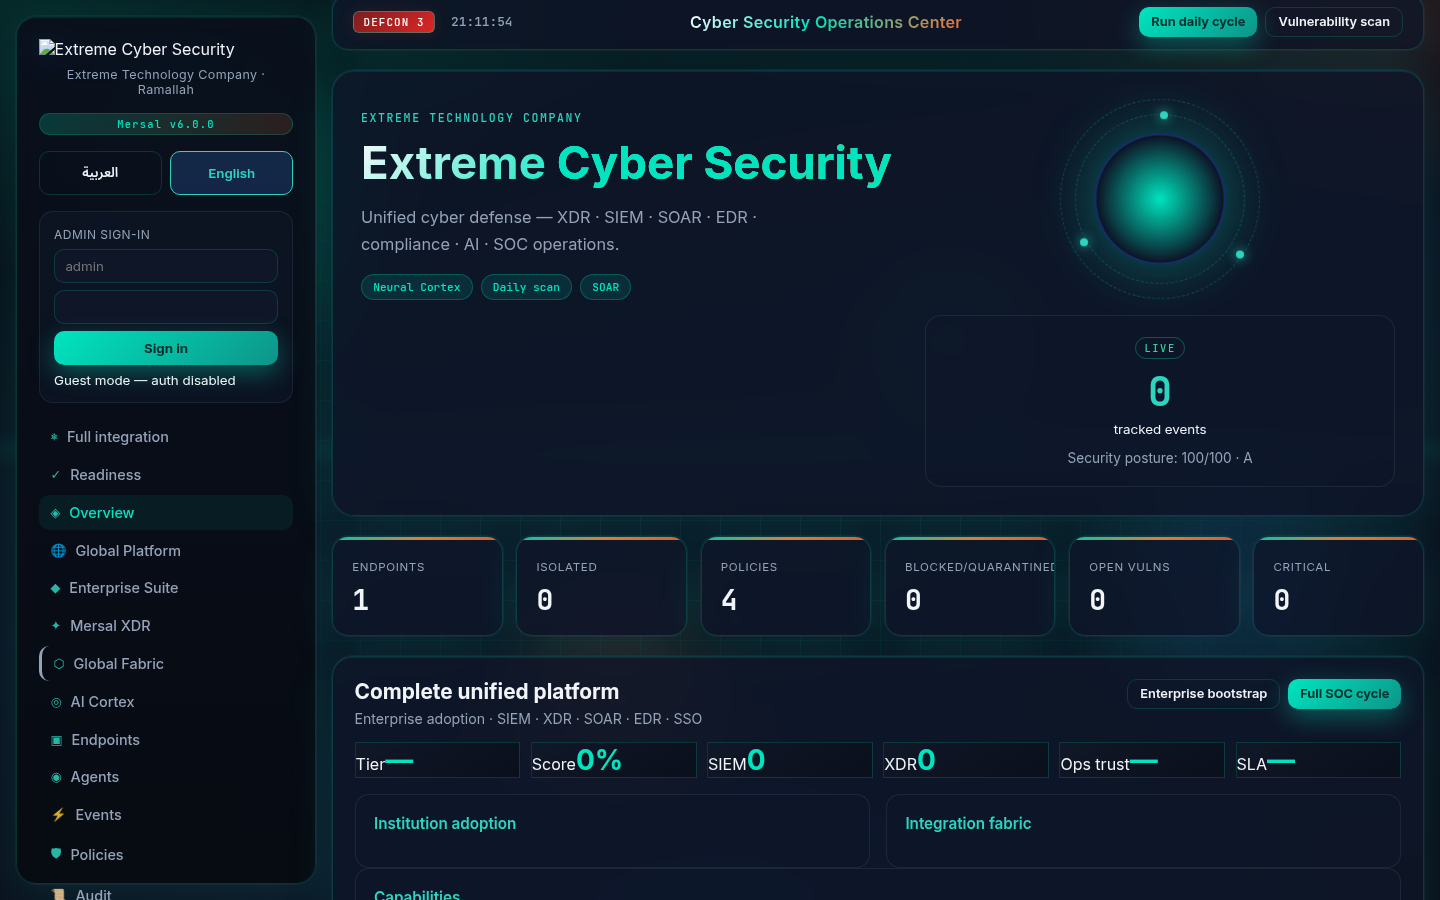
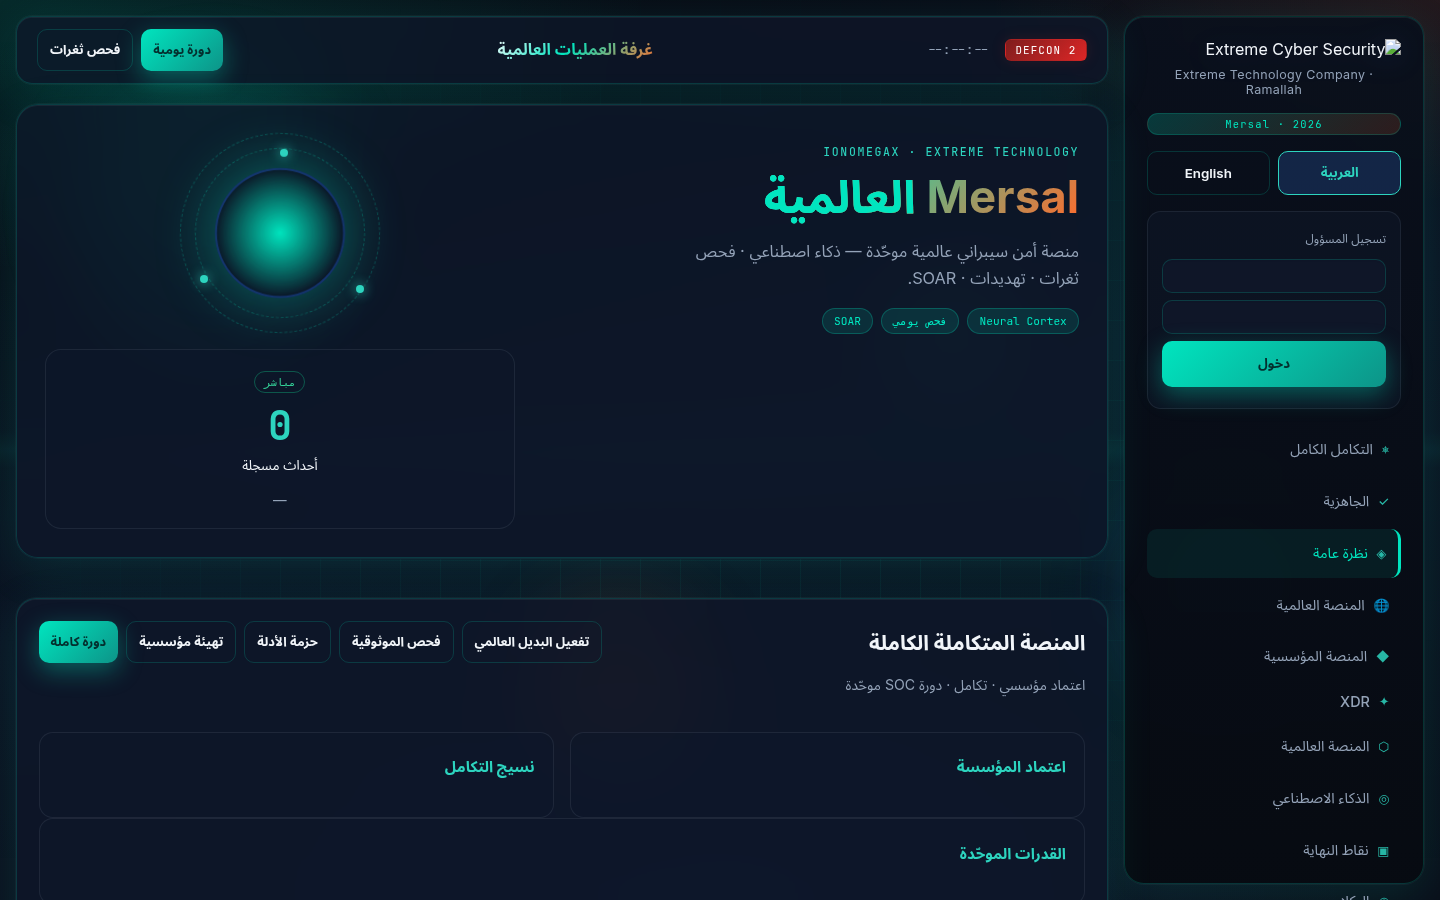
release: Mersal OS 6.0.0 ISO with ECS 1.1.0 bundle and refreshed screenshots
- Bump release to 6.0.0 global-alternative / extreme-cyber-security-1.1.0
- Sync 9 ISO screenshots + 20 platform Command Center captures
- sync-iso-screenshots.sh, CI artifacts for ISO and screenshots
- Release docs AR/EN and GitHub release guide mersal-os-6.0.0

diff --git a/xtreme-ip-guard/scripts/capture_screenshots_standalone.py b/xtreme-ip-guard/scripts/capture_screenshots_standalone.py
@@ -20,6 +20,8 @@ os.environ["MERSAL_NO_SCHEDULER"] = "1"
 os.environ["MERSAL_KEV_FEED_URL"] = ""
 os.environ["MERSAL_BOOTSTRAP"] = "0"
 os.environ["MERSAL_DEMO_UI"] = "1"
+os.environ.setdefault("MERSAL_SIGNING_SECRET", "x" * 48)
+os.environ.setdefault("MERSAL_API_TOKEN", "demo-capture-token-minimum-32-chars")
 
 OUT = ROOT / "docs" / "screenshots"
 PORT = 8090

diff --git a/mersal-os/docs/RELEASE_v6.0.0_mersal_os.md b/mersal-os/docs/RELEASE_v6.0.0_mersal_os.md
@@ -1,0 +1,62 @@
+# Mersal OS 6.0.0 — Extreme Cyber Security Edition (Live ISO)
+
+## العربية
+
+**Mersal OS 6.0.0** (codename: `global-alternative`) — توزيعة Linux أمنية Live ISO تتضمن **Extreme Cyber Security Platform 1.1.0** كاملة محلياً.
+
+| البند | التفاصيل |
+|--------|----------|
+| **إصدار النظام** | 6.0.0 |
+| **حزمة المنصة** | extreme-cyber-security-1.1.0 |
+| **المعمارية** | amd64 |
+| **القاعدة** | Debian 12 Bookworm |
+| **المهندس** | محمود راسم بياري — رام الله، فلسطين |
+| **الحقوق** | © 2009–2026 Extreme Technology |
+
+### التنزيل
+
+- ملف ISO: `mersal-os-6.0.0-YYYYMMDD-amd64.iso`
+- تحقق: `sha256sum -c mersal-os-6.0.0-*.iso.sha256`
+- يُبنى تلقائياً عبر GitHub Actions: workflow **Mersal OS ISO Build**
+
+### التشغيل
+
+```bash
+qemu-system-x86_64 -m 4096 -smp 2 -cdrom mersal-os-6.0.0-*-amd64.iso -boot d
+```
+
+1. اختر **Mersal** من قائمة الإقلاع  
+2. دخول تجريبي: `mersal` / `mersal`  
+3. مركز القيادة: http://127.0.0.1:8090/console/  
+4. البديل العالمي: `POST /api/platform/global-alternative/activate`
+
+### المزايا المدمجة (جديد في 6.0)
+
+- Extreme Cyber Security Command Center (وضع داكن)
+- XDR · SIEM · SOAR · EDR · امتثال · تكامل OIDC/SAML/SCIM
+- مؤشر تكافؤ عالمي + تفعيل بديل متكامل
+- وكيل نقطة نهاية + بوابة nftables/Suricata
+
+### لقطات
+
+راجع `mersal-os/docs/screenshots/` و `xtreme-ip-guard/docs/screenshots/` (20 شاشة للمنصة).
+
+### البناء المحلي
+
+```bash
+cd mersal-os
+./scripts/sync-iso-screenshots.sh
+sudo ./build/build-iso-debootstrap.sh
+```
+
+---
+
+## English
+
+**Mersal OS 6.0.0** ships **Extreme Cyber Security 1.1.0** as an integrated global-alternative stack on a bootable Live ISO.
+
+See `docs/BUILD_ISO_AR.md` for build steps and `docs/DOWNLOAD_AR.md` for distribution notes.
+
+---
+
+© Extreme Technology Company · Eng. Mahmoud Rasem Bayari

diff --git a/docs/GITHUB_RELEASE_MERSAL_OS_6.0.0.md b/docs/GITHUB_RELEASE_MERSAL_OS_6.0.0.md
@@ -1,0 +1,38 @@
+# GitHub Release — Mersal OS 6.0.0 + Extreme Cyber Security 1.1.0
+
+## Tag
+
+`mersal-os-6.0.0`
+
+## Assets
+
+| Asset | Source |
+|-------|--------|
+| `mersal-os-6.0.0-*-amd64.iso` | GitHub Actions → **Mersal OS ISO Build** artifact |
+| `mersal-os-6.0.0-*.iso.sha256` | Generated by build script |
+| Screenshots | `mersal-os/docs/screenshots/*.png` |
+| Platform UI (20) | `xtreme-ip-guard/docs/screenshots/*.png` |
+
+## Release notes (AR)
+
+**Mersal OS 6.0.0** — إصدار Live ISO مع **Extreme Cyber Security 1.1.0**:
+
+- بديل عالمي متكامل (XDR/SIEM/SOAR/GRC)
+- مركز قيادة داكن ثنائي اللغة
+- تفعيل `global-alternative` من الواجهة أو API
+- لقطات محدّثة في المستودع
+
+## Build ISO on CI
+
+Push to `mersal-os/**` or run workflow manually. Download artifact and attach to this release.
+
+## Screenshots in release body
+
+Embed from repo paths:
+
+- `mersal-os/docs/screenshots/01-command-center-ar.png`
+- `xtreme-ip-guard/docs/screenshots/01-overview-ar.png` … `20-about-en.png`
+
+---
+
+© Extreme Technology · Eng. Mahmoud Rasem Bayari · 2009–2026

diff --git a/mersal-os/docs/screenshots/README.md b/mersal-os/docs/screenshots/README.md
@@ -1,0 +1,24 @@
+# Mersal OS 6.0 — Screenshots
+
+| File | Description |
+|------|-------------|
+| `01-command-center-ar.png` | Extreme Cyber Security Command Center (AR overview) |
+| `02-boot-screen.png` | Boot / live branding |
+| `03-brand-logo.png` | Mersal OS brand |
+| `03-brand-ecs-logo.png` | Extreme Cyber Security logo |
+| `04-terminal-status.png` | `mersal-status` style terminal |
+| `05-enterprise-integration-ar.png` | Enterprise integration panel |
+| `06-xdr-ar.png` | XDR console |
+| `07-about-ar.png` | About / credits |
+| `08-command-center-en.png` | Command Center (EN) |
+| `09-about-en.png` | About (EN) |
+| `06-iso-ready.png` | ISO build ready indicator |
+
+**Platform gallery (20 screens):** `../../xtreme-ip-guard/docs/screenshots/`
+
+Refresh:
+
+```bash
+cd xtreme-ip-guard && python3 scripts/capture_screenshots_standalone.py
+cd ../mersal-os && ./scripts/sync-iso-screenshots.sh
+```

diff --git a/mersal-os/RELEASE_NOTES_AR_v6.0.0.md b/mersal-os/RELEASE_NOTES_AR_v6.0.0.md
@@ -1,0 +1,29 @@
+# Mersal OS 6.0.0 — ملاحظات الإصدار
+
+## الجديد
+
+- **Extreme Cyber Security 1.1.0** مدمجة في `/opt/mersal-guard`
+- هوية **global-alternative** — بديل متكامل لمنصات XDR/SIEM/SOAR العالمية
+- مركز قيادة محدّث (وضع داكن) + لقطات في `docs/screenshots/`
+- تسمية ISO: `mersal-os-6.0.0-YYYYMMDD-amd64.iso`
+
+## الترقية من 8.7 / 5.0
+
+```bash
+# بناء جديد
+cd mersal-os && ./scripts/sync-iso-screenshots.sh && sudo make iso
+```
+
+## لقطات مرفقة
+
+| # | ملف |
+|---|-----|
+| 1 | `01-command-center-ar.png` |
+| 2 | `08-command-center-en.png` |
+| 3 | `05-enterprise-integration-ar.png` |
+| 4 | `06-xdr-ar.png` |
+| 5 | `03-brand-ecs-logo.png` |
+
+المنصة الكاملة: 20 لقطة في `xtreme-ip-guard/docs/screenshots/`.
+
+© Extreme Technology · 2009–2026

diff --git a/mersal-os/README.md b/mersal-os/README.md
@@ -6,9 +6,13 @@
 
 ## Download ISO (GitHub Release)
 
-**[Releases — mersal-os-20260528-amd64.iso (~339 MB)](https://github.com/developer8181/ionomegax-mersal-ios/releases)**
+**Mersal OS 6.0.0** — Extreme Cyber Security Edition · platform bundle **1.1.0**
+
+**[Releases](https://github.com/developer8181/ionomegax-mersal-ios/releases)** — artifact `mersal-os-iso` from workflow **Mersal OS ISO Build**, or tag `mersal-os-6.0.0`
 
 Login: `mersal` / `mersal` · Console: http://127.0.0.1:8090/console/
+
+Screenshots: [docs/screenshots/](docs/screenshots/) · [RELEASE v6.0.0](docs/RELEASE_v6.0.0_mersal_os.md)
 
 It unifies:
 

diff --git a/mersal-os/docs/README_AR.md b/mersal-os/docs/README_AR.md
@@ -5,8 +5,8 @@
 </p>
 
 <p align="center">
-  <strong>Ionomegax · Mersal Guard OS</strong><br/>
-  <em>Powered by Extreme Technology Company</em>
+  <strong>Mersal OS 6.0 — Extreme Cyber Security Edition</strong><br/>
+  <em>Extreme Technology Company · منصة 1.1.0</em>
 </p>
 
 ---
@@ -51,7 +51,7 @@
 
 | البند | القيمة |
 |-------|--------|
-| الإصدار | **1.0.0** (تجريبي — Live) |
+| الإصدار | **6.0.0** (Live — Extreme Cyber Security 1.1.0) |
 | الملف | `mersal-os-20260528-amd64.iso` |
 | الحجم | ~339 MB |
 | المعمارية | amd64 (64-bit) |

diff --git a/mersal-os/docs/DOWNLOAD_AR.md b/mersal-os/docs/DOWNLOAD_AR.md
@@ -6,7 +6,8 @@
 2. تبويب **Actions** → workflow **Mersal OS ISO Build**.
 3. **Run workflow** (أو انتظر اكتمال آخر تشغيل).
 4. من صفحة التشغيل الناجح: **Artifacts** → `mersal-os-iso`.
-5. حمّل `mersal-os-YYYYMMDD-amd64.iso` وملف `.sha256`.
+5. حمّل `mersal-os-6.0.0-YYYYMMDD-amd64.iso` وملف `.sha256`.
+6. لقطات الإصدار: مجلد `mersal-os/docs/screenshots/` في المستودع.
 
 ## الطريقة 2 — البناء المحلي (موصى به)
 
